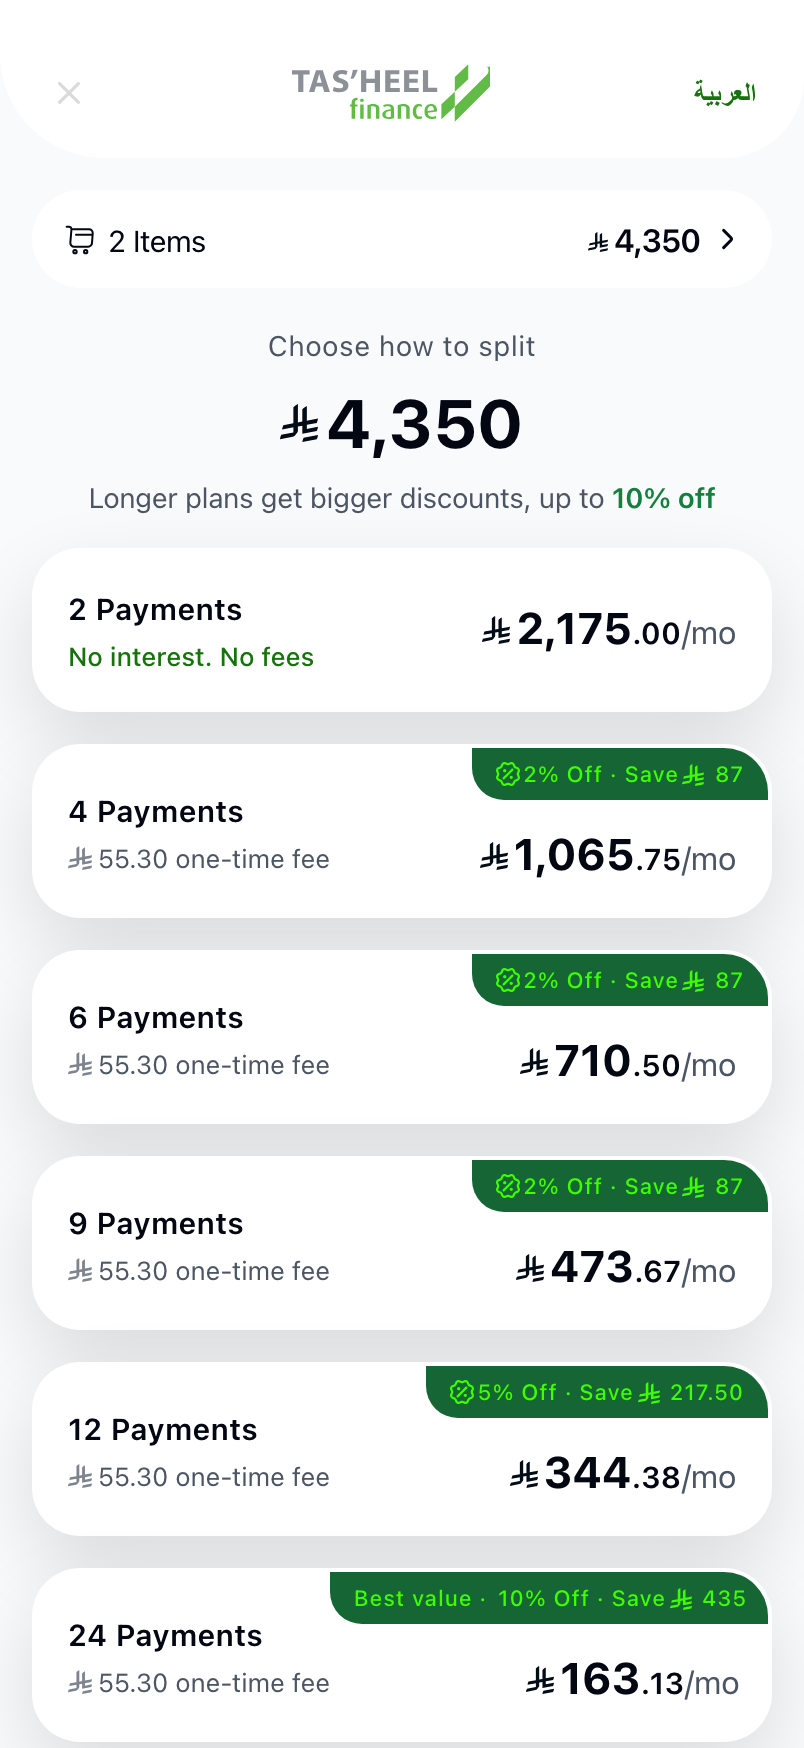
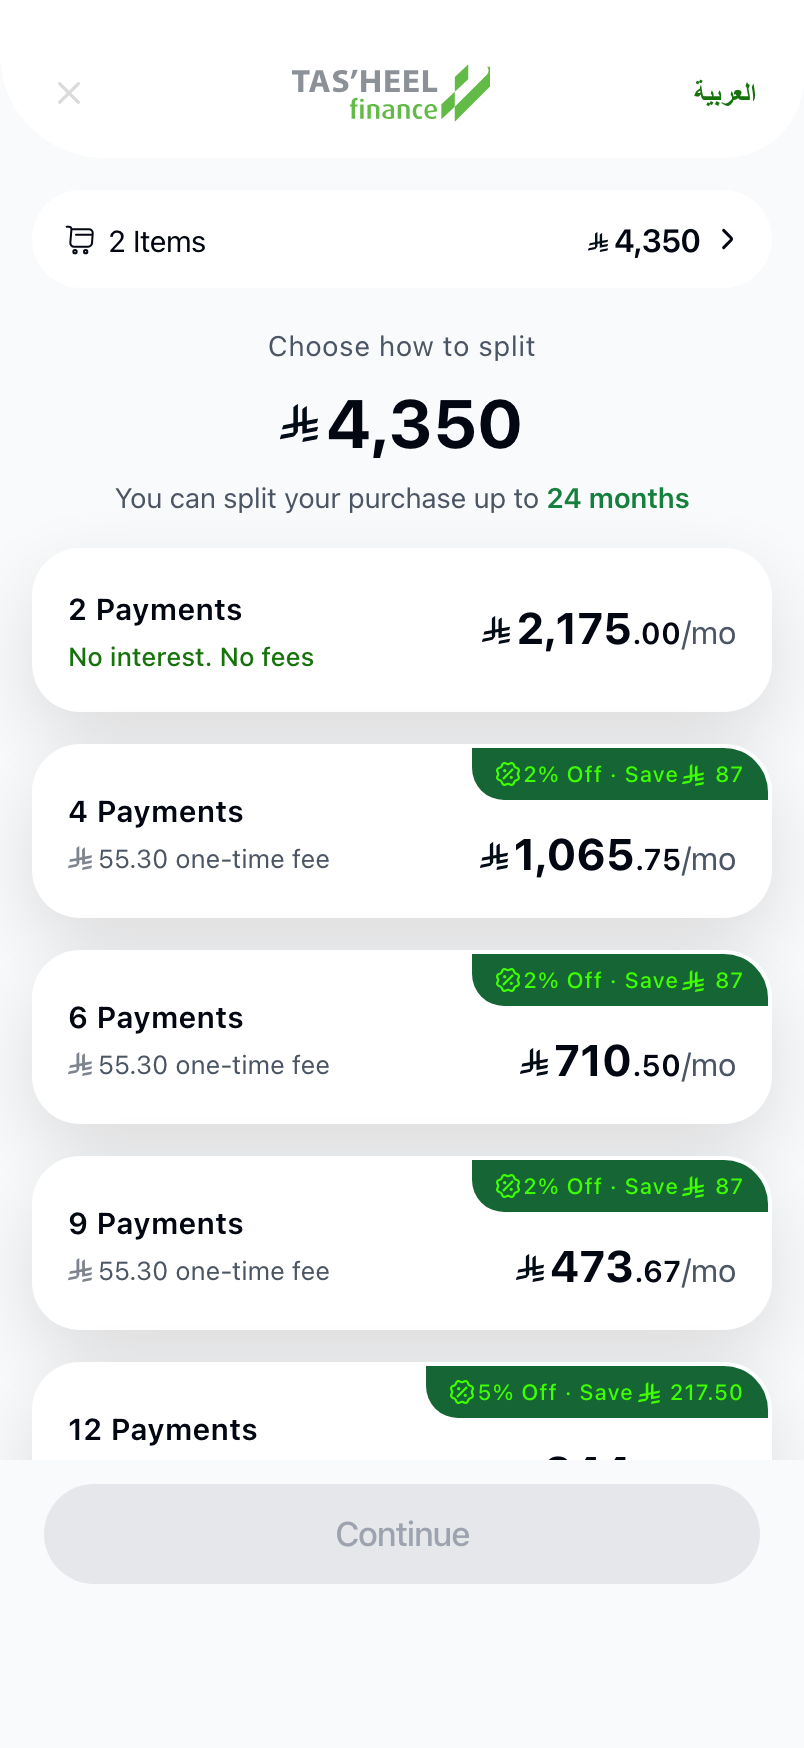
Demo hub + sticky Continue + bright selection ring on the list
- /demos: one screen linking both experiences (Demo 1 - Plan list, Demo 2 -
  Tenure stepper); each demo's browser-back arrow returns to the hub.
- Plan list: fixed frame with the list scrolling internally, so Continue and
  the Safari bar stay pinned; commit action never leaves the viewport.
- Selection ring switched from near-black to the brand's bright green with a
  whisper of tint — the dark ring read as an error state.
- Round-trip verified with Playwright: hub -> demo 1 -> back -> demo 2, 0 errors.

Changed region(s): [[0.0622, 0.8341, 0.9639, 0.9886], [0.1244, 0.278, 0.9017, 0.3089], [0.3731, 0.9577, 0.4042, 0.9886]]

diff --git a/App.tsx b/App.tsx
@@ -26,7 +26,7 @@ import Svg, {
 } from 'react-native-svg';
 
 type RouteKey = 'checkout' | 'saLogin' | 'saOtp' | 'saAddCard' | 'superHome' | 'appHome' | 'detail' | 'insights' | 'insightsCategory' | 'insightsEmpty' | 'purchases' | 'dues' | 'nextUp' | 'paymentMethod' | 'paymentSelected' | 'addCard' | 'cardAdded' | 'otp' | 'processing' | 'insufficient' | 'declined' | 'success'
-  | 'wcMobile' | 'wcOtp' | 'wcIdentity' | 'wcNafath' | 'wcQuickCall' | 'wcTenure' | 'wcPlans' | 'wcPayment' | 'wcProcessing' | 'wcSuccess' | 'wcNotification';
+  | 'wcMobile' | 'wcOtp' | 'wcIdentity' | 'wcNafath' | 'wcQuickCall' | 'wcTenure' | 'wcPlans' | 'wcDemo' | 'wcPayment' | 'wcProcessing' | 'wcSuccess' | 'wcNotification';
 type PayMethod = 'card' | 'apple';
 type Merchant = 'extra' | 'jarir' | 'noon';
 
@@ -355,6 +355,7 @@ const routeFromPath = (path: string): RouteKey => {
   if (path.includes('/checkout/onboarding/quick-call')) return 'wcQuickCall';
   if (path.includes('/checkout/onboarding/tenure')) return 'wcTenure';
   if (path.includes('/checkout/onboarding/plans')) return 'wcPlans';
+  if (path.includes('/demos')) return 'wcDemo';
   if (path.includes('/checkout/onboarding/payment')) return 'wcPayment';
   if (path.includes('/checkout/onboarding/processing')) return 'wcProcessing';
   if (path.includes('/checkout/onboarding/success')) return 'wcSuccess';
@@ -1640,7 +1641,7 @@ function WcTenure({ setRoute, months, setMonths }: { setRoute: (r: RouteKey) => 
             </View>
           </View>
           <View style={styles.wcObBottom}>
-            <SafariCompactBar url="extrastores.com" onBack={() => setRoute('wcQuickCall')} />
+            <SafariCompactBar url="extrastores.com" onBack={() => setRoute('wcDemo')} />
           </View>
         </ScreenFade>
         {sheet === 'details' ? <WcPlanDetailsSheet months={months} onClose={() => setSheet(null)} onViewSchedule={() => setSheet('schedule')} onContinue={() => setRoute('wcPayment')} /> : null}
@@ -1648,6 +1649,53 @@ function WcTenure({ setRoute, months, setMonths }: { setRoute: (r: RouteKey) => 
         {sheet === 'cart' ? <WcCartSheet onClose={() => setSheet(null)} /> : null}
         {sheet === 'fee' ? <WcFourMonthFeeSheet onClose={() => setSheet(null)} /> : null}
         {sheet === 'discounts' ? <WcDiscountsSheet months={months} onClose={() => setSheet(null)} onSelect={(m) => { bump(m); setSheet(null); }} /> : null}
+        <View style={styles.wcStatusOverlay} pointerEvents="none"><StatusStrip pointerEvents="none" /></View>
+      </View>
+    </AppShell>
+  );
+}
+
+// Demo hub — one screen linking both plan-selection experiences. Each demo's
+// browser-back arrow returns here, so reviewers can bounce between them.
+function WcDemoHub({ setRoute }: { setRoute: (r: RouteKey) => void }) {
+  const demos: Array<{ key: RouteKey; n: number; title: string; sub: string; testID: string }> = [
+    { key: 'wcPlans', n: 1, title: 'Plan list', sub: 'Every plan on one screen, compared side by side', testID: 'wc-demo-1' },
+    { key: 'wcTenure', n: 2, title: 'Tenure stepper', sub: 'One plan in view, stepped with − and +', testID: 'wc-demo-2' },
+  ];
+  return (
+    <AppShell>
+      <View testID="wc-demo-hub" style={styles.wcObScreen}>
+        <ScreenFade>
+          <View style={styles.wcDemoWrap}>
+            <TasheelMark size={44} />
+            <View style={{ gap: 6, alignItems: 'center' }}>
+              <Text style={styles.wcDemoTitle}>Plan selection</Text>
+              <Text style={styles.wcDemoSub}>Two ways to choose a BNPL plan. Open a demo; the browser back arrow returns here.</Text>
+            </View>
+            <View style={{ gap: 14, alignSelf: 'stretch' }}>
+              {demos.map((demo) => (
+                <Pressable
+                  key={demo.key}
+                  testID={demo.testID}
+                  onPress={() => setRoute(demo.key)}
+                  accessibilityRole="button"
+                  accessibilityLabel={`Open demo ${demo.n}: ${demo.title}`}
+                  style={({ pressed }) => [styles.wcDemoCard, pressed && { transform: [{ scale: 0.99 }], opacity: 0.92 }]}
+                >
+                  <View style={styles.wcDemoNum}><Text style={styles.wcDemoNumText}>{demo.n}</Text></View>
+                  <View style={{ flex: 1, gap: 3 }}>
+                    <Text style={styles.wcDemoCardTitle}>Demo {demo.n} · {demo.title}</Text>
+                    <Text style={styles.wcDemoCardSub}>{demo.sub}</Text>
+                  </View>
+                  <Text style={styles.wcDemoChevron}>›</Text>
+                </Pressable>
+              ))}
+            </View>
+          </View>
+          <View style={styles.wcObBottom}>
+            <SafariCompactBar url="extrastores.com" />
+          </View>
+        </ScreenFade>
         <View style={styles.wcStatusOverlay} pointerEvents="none"><StatusStrip pointerEvents="none" /></View>
       </View>
     </AppShell>
@@ -1720,11 +1768,13 @@ function WcPlanList({ setRoute, months, setMonths }: { setRoute: (r: RouteKey) =
   const maxTenure = WC_TENURES[WC_TENURES.length - 1];
   const chosen = months;
   return (
-    <AppShell>
+    // Fixed frame + internal scroll: the plan list scrolls under a pinned
+    // Continue, so the commit action never leaves the viewport.
+    <AppShell scroll={false}>
       <View testID="wc-plans-3615-73832" style={styles.wcObScreen}>
         <ScreenFade>
           <WcOnboardHeader onClose={() => setRoute('checkout')} />
-          <View style={styles.wcPlansContent}>
+          <ScrollView style={{ flex: 1 }} contentContainerStyle={styles.wcPlansContent} showsVerticalScrollIndicator={false}>
             <WcCartPill onPress={() => setSheet('cart')} months={chosen} />
             <View style={styles.wcPlansHead}>
               <Text style={styles.wcPlansEyebrow}>Choose how to split</Text>
@@ -1751,7 +1801,7 @@ function WcPlanList({ setRoute, months, setMonths }: { setRoute: (r: RouteKey) =
             >
               <Text style={styles.wcSavingLink}>View discount tiers ›</Text>
             </Pressable>
-          </View>
+          </ScrollView>
           <View style={styles.wcPlansFooter}>
             <Pressable
               testID="wc-plans-continue"
@@ -1764,7 +1814,7 @@ function WcPlanList({ setRoute, months, setMonths }: { setRoute: (r: RouteKey) =
             >
               <Text style={[styles.wcGreenCtaText, chosen === null && styles.wcCtaDisabledText]}>Continue</Text>
             </Pressable>
-            <SafariCompactBar url="extrastores.com" onBack={() => setRoute('wcQuickCall')} />
+            <SafariCompactBar url="extrastores.com" onBack={() => setRoute('wcDemo')} />
           </View>
         </ScreenFade>
         {sheet === 'cart' ? <WcCartSheet onClose={() => setSheet(null)} /> : null}
@@ -4368,7 +4418,7 @@ export default function App() {
     setRouteState(r);
     const map: Record<RouteKey, string> = {
       checkout: '/checkout', appHome: '/checkout/app-home', detail: '/checkout/detail', insights: '/checkout/insights', insightsCategory: '/checkout/insights/category', insightsEmpty: '/checkout/insights/empty', purchases: '/checkout/purchases', dues: '/checkout/dues', nextUp: '/checkout/next-up', paymentMethod: '/checkout/payment-method', paymentSelected: '/checkout/payment-method/selected', addCard: '/checkout/payment-method/add-card', cardAdded: '/checkout/payment-method/added', otp: '/checkout/otp', processing: '/checkout/processing', insufficient: '/checkout/insufficient', declined: '/checkout/declined', success: '/checkout/success',
-      wcMobile: '/checkout/onboarding/mobile', wcOtp: '/checkout/onboarding/otp', wcIdentity: '/checkout/onboarding/identity', wcNafath: '/checkout/onboarding/nafath', wcQuickCall: '/checkout/onboarding/quick-call', wcTenure: '/checkout/onboarding/tenure', wcPlans: '/checkout/onboarding/plans', wcPayment: '/checkout/onboarding/payment', wcProcessing: '/checkout/onboarding/processing', wcSuccess: '/checkout/onboarding/success', wcNotification: '/checkout/notification', saLogin: '/checkout/login', saOtp: '/checkout/otp-login', saAddCard: '/checkout/add-card-home', superHome: '/checkout/superhome'
+      wcMobile: '/checkout/onboarding/mobile', wcOtp: '/checkout/onboarding/otp', wcIdentity: '/checkout/onboarding/identity', wcNafath: '/checkout/onboarding/nafath', wcQuickCall: '/checkout/onboarding/quick-call', wcTenure: '/checkout/onboarding/tenure', wcPlans: '/checkout/onboarding/plans', wcDemo: '/demos', wcPayment: '/checkout/onboarding/payment', wcProcessing: '/checkout/onboarding/processing', wcSuccess: '/checkout/onboarding/success', wcNotification: '/checkout/notification', saLogin: '/checkout/login', saOtp: '/checkout/otp-login', saAddCard: '/checkout/add-card-home', superHome: '/checkout/superhome'
     };
     pushPath(map[r]);
   };
@@ -4379,6 +4429,7 @@ export default function App() {
   if (route === 'wcQuickCall') return <WcQuickCall setRoute={setRoute} />;
   if (route === 'wcTenure') return <WcTenure setRoute={setRoute} months={wcMonths} setMonths={setWcMonths} />;
   if (route === 'wcPlans') return <WcPlanList setRoute={setRoute} months={wcChosen} setMonths={(m) => { setWcChosen(m); setWcMonths(m); }} />;
+  if (route === 'wcDemo') return <WcDemoHub setRoute={setRoute} />;
   if (route === 'wcPayment') return <WcPayment setRoute={setRoute} months={wcMonths} setMonths={setWcMonths} />;
   if (route === 'wcProcessing') return <WcProcessing setRoute={setRoute} />;
   if (route === 'wcSuccess') return <WcSuccess months={wcMonths} />;
@@ -4612,8 +4663,18 @@ const styles = StyleSheet.create({
   wcDiscountRowActive: { backgroundColor: '#f0fdf4' },
   wcDiscountRowRight: { flexDirection: 'row', alignItems: 'center', gap: 10 },
   wcDiscountPct: { fontSize: 13, lineHeight: 18, fontWeight: '600', color: greenBrand },
+  // ── Demo hub ──────────────────────────────────────────────────────────────────
+  wcDemoWrap: { flex: 1, paddingHorizontal: 24, paddingTop: 96, gap: 28, alignItems: 'center' },
+  wcDemoTitle: { fontSize: 28, lineHeight: 34, fontWeight: '700', color: text, letterSpacing: 0.36, textAlign: 'center' },
+  wcDemoSub: { fontSize: 14, lineHeight: 19, color: muted, textAlign: 'center', maxWidth: 300 },
+  wcDemoCard: { flexDirection: 'row', alignItems: 'center', gap: 14, backgroundColor: '#fff', borderRadius: 24, padding: 18, shadowColor: '#000', shadowOpacity: 0.08, shadowRadius: 24, shadowOffset: { width: 0, height: 10 } },
+  wcDemoNum: { width: 40, height: 40, borderRadius: 20, backgroundColor: green, alignItems: 'center', justifyContent: 'center' },
+  wcDemoNumText: { fontSize: 17, lineHeight: 22, fontWeight: '700', color: neon },
+  wcDemoCardTitle: { fontSize: 16, lineHeight: 21, fontWeight: '600', color: text },
+  wcDemoCardSub: { fontSize: 13, lineHeight: 17, color: muted },
+  wcDemoChevron: { fontSize: 22, lineHeight: 26, color: '#9ca3af', fontWeight: '400' },
   // ── Experience A — Figma 3615:73832 ───────────────────────────────────────────
-  wcPlansContent: { paddingHorizontal: 16, marginTop: 16, gap: 16 },
+  wcPlansContent: { paddingHorizontal: 16, paddingTop: 16, paddingBottom: 20, gap: 16 },
   wcPlansHead: { paddingHorizontal: 16, paddingTop: 4, alignItems: 'center', gap: 8 },
   wcPlansEyebrow: { fontSize: 14, lineHeight: 18, color: muted, letterSpacing: 0.36 },
   wcPlansTotalRow: { flexDirection: 'row', alignItems: 'center' },
@@ -4621,12 +4682,14 @@ const styles = StyleSheet.create({
   wcPlansSub: { fontSize: 14, lineHeight: 18, color: muted, letterSpacing: -0.08, textAlign: 'center' },
   wcPlansSubStrong: { fontWeight: '600', color: '#15803d' },
   wcPlansList: { gap: 16 },
-  wcPlansFooter: { marginTop: 'auto', paddingTop: 24, gap: 16, alignItems: 'center' },
+  wcPlansFooter: { paddingTop: 12, gap: 14, alignItems: 'center', backgroundColor: canvas },
   wcPlansCta: { width: '100%', maxWidth: 358, alignSelf: 'center' },
   wcPlanRow: { backgroundColor: '#fff', borderRadius: 24, overflow: 'hidden', flexDirection: 'row', alignItems: 'center', justifyContent: 'space-between', paddingLeft: 16, borderWidth: 2, borderColor: 'transparent', shadowColor: '#000', shadowOpacity: 0.12, shadowRadius: 40, shadowOffset: { width: 0, height: 16 } },
   wcPlanRowOffer: { height: 87 },
   wcPlanRowPlain: { minHeight: 82, paddingRight: 16, paddingVertical: 16 },
-  wcPlanRowSelected: { borderColor: green },
+  // Selection reads in the brand's bright green with a whisper of tint — the
+  // dark ring looked like an error state next to the badges.
+  wcPlanRowSelected: { borderColor: '#3eff00', backgroundColor: '#fbfffa' },
   wcPlanRowLeft: { gap: 6 },
   wcPlanRowTitle: { fontSize: 15, lineHeight: 20, fontWeight: '600', color: text, letterSpacing: 0.38 },
   wcPlanRowFree: { fontSize: 13, lineHeight: 16, fontWeight: '500', color: greenBrand },
